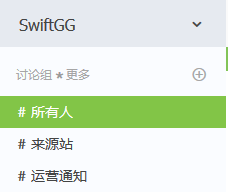
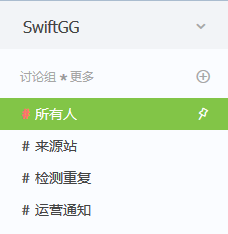
update guide

diff --git a/SwiftGG 翻译组新成员指南.md b/SwiftGG 翻译组新成员指南.md
@@ -2,6 +2,8 @@
 
 欢迎加入 SwiftGG 翻译组！我们是一个非常自由开放活泼的团队，相信你在这里会收获很多。
 
+> 请仔细阅读下面的内容，以便之后和其他人更好地配合。团队本身没有什么条条框框，但是既然和其他人合作，就不要因为自己的疏忽给其他人造成不必要的麻烦。
+
 加入 QQ 群之后，**第一件事**是改名，可以改成 GitHub 上的 ID，也可以改成你喜欢的名称。
 
 为了规范翻译流程、方便大家协作，我们使用了一些工具，本文会介绍工具的使用方法。
@@ -56,7 +58,7 @@ Bearychat 加入流程：
 
 Bearychat 有移动端 APP，可以自行下载。
 
-加入之后，可以看到左上角有三个讨论组：
+加入之后，可以看到左上角有四个讨论组：
 
 ![](https://raw.githubusercontent.com/SwiftGGTeam/GGHexo/master/guide-imgs/3.png)
 
@@ -67,6 +69,26 @@ Bearychat 有移动端 APP，可以自行下载。
 `#运营通知`是运营用的，里面有微博机器人，之后还会添加其他机器人，感兴趣的话可以加入。
 
 `#来源站`是核心功能，我们监控了多个国外的博客和网站，脚本放在阿里云的服务器上。一旦网站更新，文章和链接就会被发送到这个讨论组，因此可以加入这个讨论组，及时发现新文章。
+
+`#检测重复`用来检测你要翻译的文章是否重复，使用的时候直接在讨论组发言即可，机器人会自动检测你的命令并返回结果。
+
+目前支持两条命令：`/add url`和`/check url`，把`url`替换成文章地址，注意命令和`url`之间有一个空格。
+
+`/add url`命令会添加新链接，当你把新文章放入 Tower 的时候，需要在这里添加链接，添加完毕会看到这样的结果：
+
+![](https://raw.githubusercontent.com/SwiftGGTeam/GGHexo/master/guide-imgs/6.png)
+
+`/check url`命令会检测链接是否已经存在，当你发现一篇新文章准备翻译的时候，需要先检测文章是否已经存在。如果文章存在会看到如下结果：
+
+![](https://raw.githubusercontent.com/SwiftGGTeam/GGHexo/master/guide-imgs/7.png)
+
+这表示这篇文章已经添加过，是重复文章，不要再加入 Tower，否则可能导致重复翻译。
+
+如果文章不存在，会看到如下结果：
+
+![](https://raw.githubusercontent.com/SwiftGGTeam/GGHexo/master/guide-imgs/8.png)
+
+> 注意：支持一定程度的模糊查询，不过尽量保证`url`完整。
 
 > Bearychat 使用技巧：可以对每个讨论组进行设置，比如把`#所有人`的普通通知关掉，只有@才会提醒。`#来源站`的通知不应该关掉，因为这里没有闲聊，只会在有新文章的时候提醒。
 
